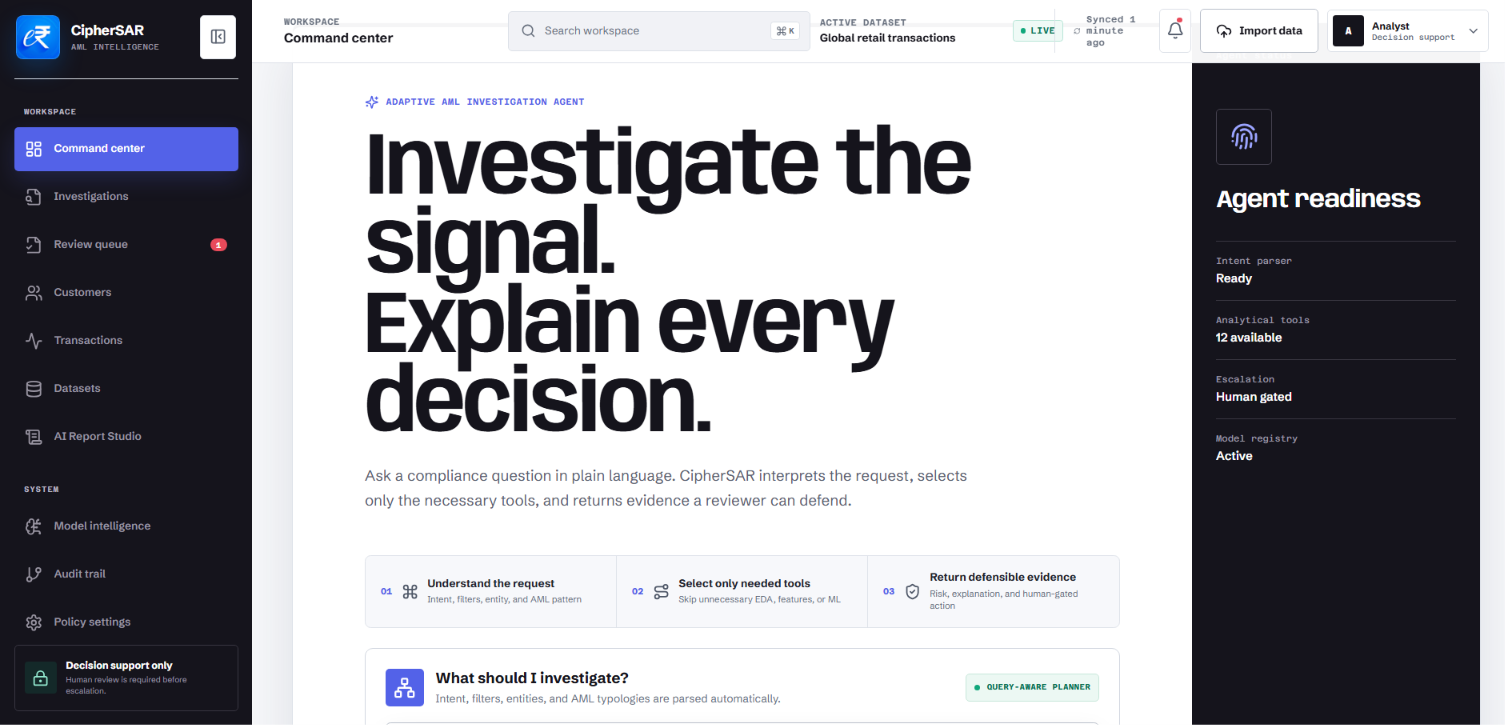
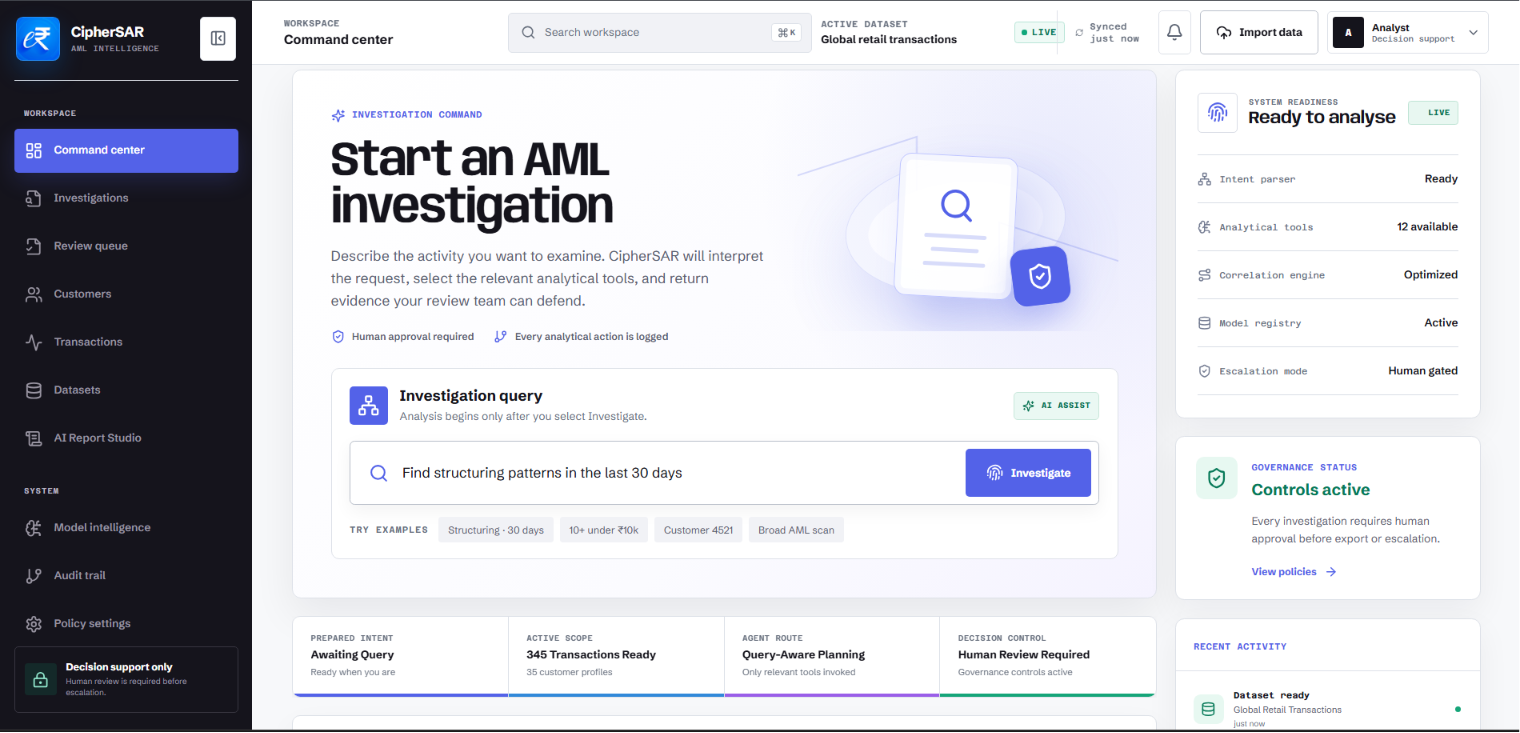
docs(readme): clarify contributions and refresh command center

diff --git a/README.md b/README.md
@@ -302,10 +302,10 @@ See [Architecture and controls](docs/ARCHITECTURE.md) for the production-hardeni
 
 ## Contribution traceability
 
-All work must be committed from the contributor's own GitHub account. Do not rewrite authorship or commit another person's work under their name.
+The Git history records each contributor's implementation work through independently authored commits.
 
-- **Devesh Singhal** — repository owner and initial implementation.
-- **Ankit Marik** — collaborator (`AnkitKumar61`); trained-model integration, model intelligence UI, evaluation, and associated documentation are developed on the current feature branch.
+- **Devesh Singhal** — built the TypeScript workspace and shared contracts; implemented the adaptive AML API, query parser, planner, analytical tools, rule/statistical detectors, and deterministic demo data; developed the operational compliance workspaces and AI Report Studio; and completed production hardening, technical documentation, branding, and major interface-system work.
+- **Ankit Kumar** (`AnkitKumar61`) — trained and integrated the IBM AMLSim account-risk model; added model evaluation, portable inference, Model Intelligence, and governance documentation; expanded query-aware orchestration and AML feature engineering; improved policy, dataset, API-failure, currency, and investigation-confirmation flows; configured Render/Vercel deployment; and delivered responsive interface and Command Center refinements.
 
 See [CONTRIBUTING.md](CONTRIBUTING.md) and [Contribution workflow](docs/CONTRIBUTIONS.md).
 
